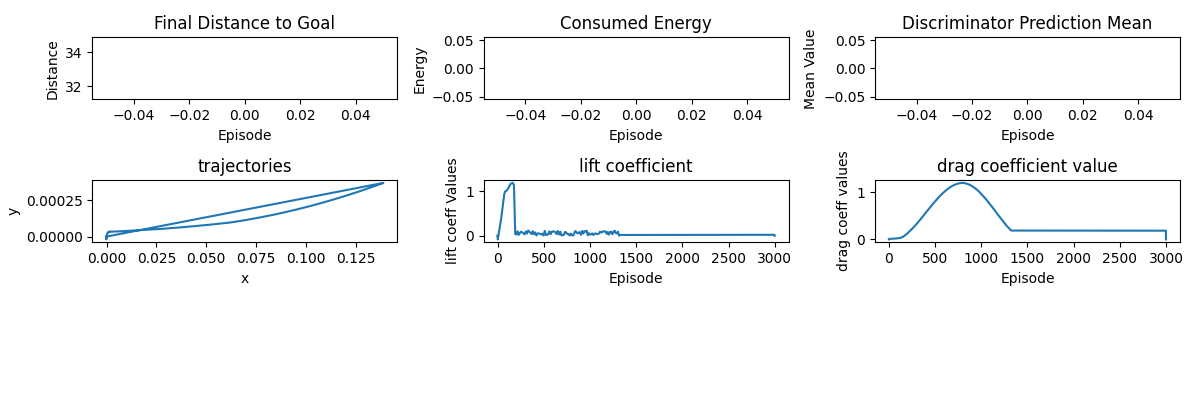
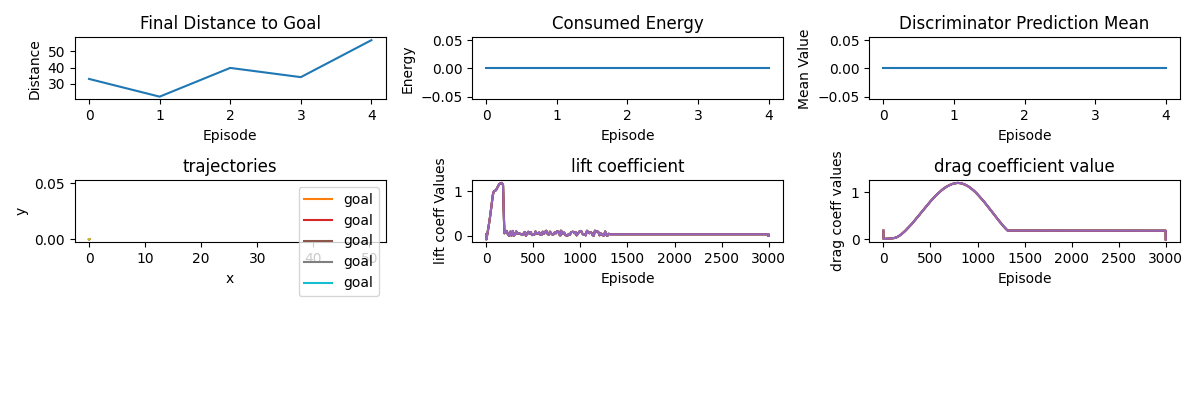
metrics: OK

diff --git a/source/standalone/workflows/rl_games/play_metrics.py b/source/standalone/workflows/rl_games/play_metrics.py
@@ -178,18 +178,23 @@ def main():
     episode_cntr = 0
     # For each environment, store list of [x, y] positions
     max_episod_length = env.unwrapped.max_episode_length
-    trajectories = torch.zeros(args_cli.num_envs, max_episod_length, 2) #[[] for _ in range(env.num_envs)]
-    lift_coeff_logs = torch.zeros(args_cli.num_envs, max_episod_length) #[[] for _ in range(env.num_envs)]
-    drag_coeff_logs = torch.zeros(args_cli.num_envs, max_episod_length) #[[] for _ in range(env.num_envs)]
+    trajectories = torch.zeros(max_episod_length, args_cli.num_envs, 2) #[[] for _ in range(env.num_envs)]
+    lift_coeff_logs = torch.zeros(max_episod_length, args_cli.num_envs) #[[] for _ in range(env.num_envs)]
+    drag_coeff_logs = torch.zeros(max_episod_length, args_cli.num_envs) #[[] for _ in range(env.num_envs)]
     goal_positions = torch.zeros(args_cli.num_envs, 2) #[None] * env.num_envs  # One goal per env
 
+    trajectories_list = []
+    lift_coeff_list = []
+    drag_coeff_list = []
+    goal_pos_list = []
+    print(f"\n====================== Max EPISODE: {max_episod_length} ==================================\n")
     # store metrics per finished episode
     all_metrics = []
     dones = torch.zeros(args_cli.num_envs)
     #try:
     #while simulation_app.is_running():
     
-    while not torch.all(dones):   
+    while episode_cntr<5:   
         wind_direc = (torch.pi/180)
         wind_speed = 5
         #print("hello")
@@ -235,23 +240,34 @@ def main():
             loss_disc = torch.tensor([loss.item()], device=rew_backward.device) if loss is not None else torch.zeros_like(rew_energy)
             tack_wpts = env.unwrapped.tack_waypoints
 
+            dones = dones.to(device=trajectories.device)
             alive_envs = (~dones).nonzero(as_tuple=True)[0].to(device=trajectories.device)
             step = env.unwrapped.episode_length_buf
             #print(f"traj: {trajectories.device} alive_envs: {alive_envs.device} step: {step.device} robot_pos: {robot_pos.device}")
-            trajectories[alive_envs, step[alive_envs], :] = robot_pos[alive_envs]
+            trajectories[step] = torch.where(~dones.unsqueeze(0), robot_pos, trajectories[step])
             #lift_coeff_logs[alive_envs, step] = lift_coeff[alive_envs].float()
-            for i in alive_envs:
-                lift_coeff_logs[i, step[i]] = lift_coeff[i].float()
-                drag_coeff_logs[i, step[i]] = drag_coeff[i].float()
-            goal_positions[alive_envs] = goal_pos[alive_envs]
+            
+            lift_coeff_logs[step] = lift_coeff.float()
+            drag_coeff_logs[step] = drag_coeff.float()
             
 
             # Reset finished environments
             if torch.any(dones):
                 # Only store essential metrics (not full objects)
                 episode_metrics = env.unwrapped.extras["log"]
+                print(f"episode: {episode_cntr}")
+                episode_cntr += 1
                 if isinstance(episode_metrics, dict):
                     all_metrics.append(episode_metrics.copy())  # Store a copy, not reference
+                
+                trajectories_list.append(trajectories)
+                lift_coeff_list.append(lift_coeff_logs)
+                drag_coeff_list.append(drag_coeff_logs)
+                goal_pos_list.append(goal_pos)
+
+                obs = env.reset()
+                if isinstance(obs, dict):
+                    obs = obs["obs"]
 
 
         
@@ -263,10 +279,10 @@ def main():
         gc.collect()
         simulation_app.close()"""
 
-    return all_metrics, trajectories, lift_coeff_logs, drag_coeff_logs, env
+    return all_metrics, trajectories_list, lift_coeff_list, drag_coeff_list, goal_pos_list, env
    
 if __name__ == "__main__":
-    metrics_list, trajectories, lift_coeff_logs, drag_coeff_logs, env = main()
+    metrics_list, trajectories_list, lift_coeff_list, drag_coeff_list, goal_pos_list, env = main()
 
     print(f"Collected metrics: {len(metrics_list)} episodes")
 
@@ -296,37 +312,41 @@ if __name__ == "__main__":
     plt.title("Discriminator Prediction Mean")
     plt.xlabel("Episode")
     plt.ylabel("Mean Value")
+    
+    for ep in range(len(trajectories_list)):
+        for env_idx in range(env.unwrapped.num_envs):
+            x, y = trajectories_list[ep][:, env_idx, 0], trajectories_list[ep][:, env_idx, 1]
+            plt.subplot(3, 3, 4)
+            plt.plot(x, y)
+            plt.scatter(goal_pos_list[ep][:, 0], goal_pos_list[ep][:, 1], label="goal")
+            plt.title("trajectories")
+            plt.xlabel("x")
+            plt.ylabel("y")
+            plt.legend()
 
-    for env_idx in range(env.unwrapped.num_envs):
-        x, y = zip(*trajectories[env_idx])
-        plt.subplot(3, 3, 4)
-        plt.plot(x, y)
-        plt.title("trajectories")
-        plt.xlabel("x")
-        plt.ylabel("y")
+            plt.subplot(3, 3, 5)
+            plt.plot(lift_coeff_list[ep][:, env_idx])
+            plt.title("lift coefficient")
+            plt.xlabel("Episode")
+            plt.ylabel("lift coeff Values")
 
-        plt.subplot(3, 3, 5)
-        plt.plot(lift_coeff_logs[env_idx])
-        plt.title("lift coefficient")
+            plt.subplot(3, 3, 6)
+            plt.plot(drag_coeff_list[ep][:, env_idx])
+            plt.title("drag coefficient value")
+            plt.xlabel("Episode")
+            plt.ylabel("drag coeff values")
+
+        """plt.subplot(3, 3, 7)
+        plt.plot(disc_pred_mean)
+        plt.title("Discriminator Prediction Mean")
         plt.xlabel("Episode")
-        plt.ylabel("lift coeff Values")
-
-        plt.subplot(3, 3, 6)
-        plt.plot(drag_coeff_logs[env_idx])
-        plt.title("drag coefficient value")
-        plt.xlabel("Episode")
-        plt.ylabel("drag coeff values")
-
-    """plt.subplot(3, 3, 7)
-    plt.plot(disc_pred_mean)
-    plt.title("Discriminator Prediction Mean")
-    plt.xlabel("Episode")
-    plt.ylabel("Mean Value")"""
+        plt.ylabel("Mean Value")"""
 
     plt.tight_layout()
+    
     #plt.show()
     plt.savefig("metrics.png")
-
+    print("========================== END ! ================================")
     #simulation_app.close()
     
 
